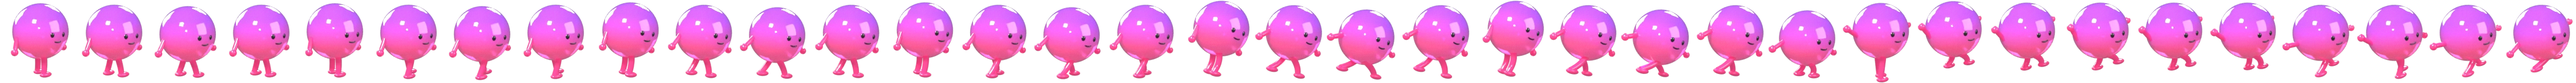
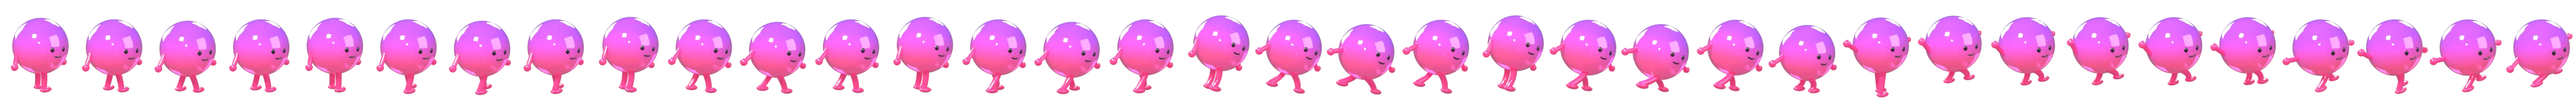
Game: a distinct powered form per power-up
- Shield: purple-to-red glass (as before).
- Magnet: blue-to-cyan glass with a red horseshoe magnet on the head.
- 2x: green glass with huge gold $ eyes that swell through the cycle, and
  the whole body pulses.
- Aura and spark trail take each form's colours. With several active,
  2x > magnet > shield.
- All four runner sheets share one crop box (room for the head magnet),
  so switching forms never shifts or resizes the runner.

Claude-Session: https://claude.ai/code/session_019fbWZCuFJHkf5tasQWWvE6

diff --git a/index.html b/index.html
@@ -1455,7 +1455,7 @@ function crash(why){if(R.shield){R.shield=false;sfx('pu_shield');msg('Shield sav
 function respawn(){let i=Math.floor(R.sx/CW);while(R.top[i]==null||i*CW<R.sx)i++;R.sx=i*CW+60;R.y=ground(R.sx);R.vy=0;R.air=false;R.jumps=0}
 function power(k,x,y){sfx('pu_'+k);if(k==='shield')R.shield=true;else if(k==='magnet')R.magT=8;else R.x2T=10;msg(PU[k][2]+'!');R.msgT=1.4;for(let i=0;i<12;i++)R.fx.push({x:x+rnd(-30,30),y:y+rnd(-30,30),vx:rnd(-160,160),vy:rnd(-240,80),l:rnd(.4,.8),c:PU[k][0]})}
 function step(dt){if(R.dead)return;if(R.stop>0){R.stop-=dt;R.zp*=Math.exp(-6*dt);return}/* hit-stop: the whole game freezes for a few frames on a big moment */R.t+=dt;R.shk*=Math.exp(-14*dt);if(R.shk<.3)R.shk=0;R.zp*=Math.exp(-7*dt);const tgt=SP0*Math.min(1.7,1+.07*R.lvl);R.speed+=(tgt-R.speed)*Math.min(1,dt*2);R.cx+=R.speed*dt;/* the screen always scrolls right */{const nx=R.sx+R.speed*dt,gn=ground(nx),gc=ground(R.sx);R.sx=nx;/* an edge ahead (a wall, or the far side of a gap): if the runner only just touches it, it slides up and carries on; lower than that is the end */if(isFinite(gn)&&(!isFinite(gc)||gn<gc-VG)&&R.y>gn+SLIDE){crash(isFinite(gc)?'You hit a wall.':'You fell in a gap.');if(R.dead)return}}ensure();/* a gap up (a vertical green line) stops the runner unless it is above the top edge: jump it */
- const wx=R.sx,gy=ground(wx);R.buf=Math.max(0,R.buf-dt);R.hurt=Math.max(0,R.hurt-dt);R.sq*=Math.exp(-9*dt);if(R.bnc>0)R.bnc-=dt;if(R.rx&&R.rx.t>0)R.rx.t-=dt;if(R.tko>0)R.tko-=dt;if(R.flip>0)R.flip-=dt;if(powered(R)&&!RMQ.matches&&Math.random()<dt*28)R.fx.push({x:R.sx+rnd(-50,20)*VK,y:R.y-rnd(20,150)*VK,vx:rnd(-260,-120),vy:rnd(-60,40),l:rnd(.25,.45),c:Math.random()<.5?'#c43cff':'#ff3a6e',g:.05});
+ const wx=R.sx,gy=ground(wx);R.buf=Math.max(0,R.buf-dt);R.hurt=Math.max(0,R.hurt-dt);R.sq*=Math.exp(-9*dt);if(R.bnc>0)R.bnc-=dt;if(R.rx&&R.rx.t>0)R.rx.t-=dt;if(R.tko>0)R.tko-=dt;if(R.flip>0)R.flip-=dt;if(powered(R)&&!RMQ.matches&&Math.random()<dt*28)R.fx.push({x:R.sx+rnd(-50,20)*VK,y:R.y-rnd(20,150)*VK,vx:rnd(-260,-120),vy:rnd(-60,40),l:rnd(.25,.45),c:formOf(R)[3][Math.random()<.5?0:1],g:.05});
  if(!R.air){if(isFinite(gy)){if(gy-R.y<=DESC*dt){const up=R.y-gy;R.y=up>30?R.y-up*Math.min(1,dt*16):gy;/* a sudden rise (a curb or wall edge) is climbed smoothly */R.coy=0;R.refY=gy}else{R.air=true;R.jumps=1;R.vy=0;R.top0=R.y}}else if((R.coy+=dt)>.14){R.air=true;R.jumps=1;R.vy=0;R.top0=R.y}}
  if(R.air){R.vy+=G*(hold&&R.vy<0?HOLDG:1)*dt;R.y+=R.vy*dt;R.top0=Math.min(R.top0,R.y);
   const cont=isFinite(gy)&&(R.y-gy<SLIDE||Math.abs(ground(wx-CW*.6)-gy)<=VG);
@@ -1520,26 +1520,30 @@ let lastScoreTxt='';function paintScore(n,col){col=col||'#ebbd4e';const t=fmt(n)
  let x=cw;for(const ch of t){const m=PIX[ch];if(m)m.split(' ').forEach((row,ry)=>{for(let rx=0;rx<5;rx++)if(row[rx]==='1'){g.fillStyle='#0e0e10';g.fillRect(x+rx*u+1,ry*u+1,u,u);g.fillStyle=col;g.fillRect(x+rx*u,ry*u,u,u)}});x+=6*u}}
 
 /* game sprites (assets/game): 3D renders in the site palette. Runner sheet = 8 run frames + 1 jump frame. */
-const GIMG=n=>Object.assign(new Image(),{src:'assets/game/'+n+'.webp'}),RUNNER=GIMG('runner'),RUNNERG=GIMG('runner-glass'),COINI=[1,2,3,4].map(i=>GIMG('coin-'+i)),PUI={shield:GIMG('pu-shield'),magnet:GIMG('pu-magnet'),x2:GIMG('pu-x2')},PUGLOW={shield:'198,202,209',magnet:'188,127,58',x2:'235,189,78'};
+const GIMG=n=>Object.assign(new Image(),{src:'assets/game/'+n+'.webp'}),RUNNER=GIMG('runner'),RUNNERG=GIMG('runner-glass'),RUNNERM=GIMG('runner-magnet'),RUNNERX=GIMG('runner-x2'),COINI=[1,2,3,4].map(i=>GIMG('coin-'+i)),PUI={shield:GIMG('pu-shield'),magnet:GIMG('pu-magnet'),x2:GIMG('pu-x2')},PUGLOW={shield:'198,202,209',magnet:'188,127,58',x2:'235,189,78'};
 function glow(x,y,r,rgb,a){const g=cx;g.save();g.globalCompositeOperation='lighter';const gr=g.createRadialGradient(x,y,0,x,y,r);gr.addColorStop(0,'rgba('+rgb+','+a+')');gr.addColorStop(1,'rgba('+rgb+',0)');g.fillStyle=gr;g.beginPath();g.arc(x,y,r,0,6.3);g.fill();g.restore()}
 const powered=s=>s.shield||s.magT>0||s.x2T>0;
+/* the powered form follows the strongest active power-up: 2x (green, $ eyes, pulsing) > magnet (blue, magnet on the head) > shield (purple-red) */
+const FORM={x2:[()=>RUNNERX,'40,210,90','235,189,78',['#3ee87a','#ffd04a']],magnet:[()=>RUNNERM,'40,110,255','90,220,255',['#3a8cff','#5fe1ff']],shield:[()=>RUNNERG,'170,40,200','235,40,90',['#c43cff','#ff3a6e']]};
+const formOf=s=>s.x2T>0?FORM.x2:s.magT>0?FORM.magnet:s.shield?FORM.shield:null;
 const ok=im=>im.complete&&im.naturalWidth>0;
 /* runner sheets (35 frames each; gold, and glass while powered up): walk 0-7, jog 8-15, run 16-23, take-off 24-26,
    rising 27-30, falling 31-34. The gait steps up per checkpoint; ground frames advance with distance so feet never skate. */
 const GAIT={walk:[0,74],jog:[8,62],run:[16,50]},gaitOf=s=>s.lvl<1?'walk':s.lvl<2?'jog':'run',RPRI={coin:1,pup:2,cp:3},TKO=.15,FLIP=.45;
 function react(k,d){if(RMQ.matches||(R.rx&&R.rx.t>0&&RPRI[R.rx.k]>RPRI[k]))return;R.rx={k,t:d,d}}/* a short body reaction; a bigger one is not cut off by a smaller one */
-function player(x,y,s){const g=cx,pw=powered(s),im=pw&&ok(RUNNERG)?RUNNERG:RUNNER,r=s.rx,rk=r&&r.t>0?r.k:'',u=rk?1-r.t/r.d:0,k=Math.sin(u*Math.PI);let sx=1,sy=1,rot=0,dy=0;
- if(pw){const p=.5+.5*Math.sin(s.t*7);glow(x,y-85*VK,(150+30*p)*VK,'170,40,200',.32+.12*p);glow(x,y-85*VK,(95+20*p)*VK,'235,40,90',.22+.1*p)}/* powered aura: purple outside, red core, pulsing */
+function player(x,y,s){const g=cx,F=formOf(s),pw=!!F,fi0=F&&F[0](),im=fi0&&ok(fi0)?fi0:RUNNER,r=s.rx,rk=r&&r.t>0?r.k:'',u=rk?1-r.t/r.d:0,k=Math.sin(u*Math.PI);let sx=1,sy=1,rot=0,dy=0;
+ if(pw){const p=.5+.5*Math.sin(s.t*7);glow(x,y-85*VK,(150+30*p)*VK,F[1],.32+.12*p);glow(x,y-85*VK,(95+20*p)*VK,F[2],.22+.1*p)}/* powered aura in the form's colours, pulsing */
  if(s.air){const v=Math.min(1,Math.abs(s.vy)/2400);sy+=.14*v;sx-=.1*v;rot=Math.max(-.35,Math.min(.35,s.vy/3200))}/* stretch with speed, tilt with the arc */
  else{const a=ground(s.sx+50),b=ground(s.sx-50);if(isFinite(a)&&isFinite(b))rot=Math.atan2(a-b,100)*.55}/* lean with the slope */
  if(s.flip>0)rot+=(1-s.flip/FLIP)*Math.PI*2;/* double jump: a front flip */
  sx*=1+s.sq*.9;sy*=1-s.sq*.9;/* landing squash, set from the fall height */
+ if(F===FORM.x2&&!RMQ.matches){const q=Math.sin(s.t*13);sx*=1+.09*q;sy*=1+.09*q}/* 2x: the whole body pulses */
  if(s.bnc>0)dy-=s.bncA*Math.abs(Math.sin((.45-s.bnc)*14))*(s.bnc/.45);/* damped rebound hops after a landing */
  if(rk==='coin'){sx*=1+.16*k;sy*=1-.12*k}
  else if(rk==='pup'){sx*=1+.3*k;sy*=1+.3*k;rot+=u*Math.PI*2}
  else if(rk==='cp'){dy-=130*k;rot-=u*Math.PI*2;sx*=1-.1*k;sy*=1+.14*k}
  g.save();g.translate(x,y+dy*VK);g.scale(VK,VK);g.translate(0,-85);g.rotate(rot);g.translate(0,85);g.scale(sx,sy);/* rotate about the body, squash from the feet */
- if(ok(im)){const fw=im.naturalWidth/35,fh=im.naturalHeight,Hh=185,Ww=Hh*fw/fh,G=GAIT[gaitOf(s)];
+ if(ok(im)){const fw=im.naturalWidth/35,fh=im.naturalHeight,Hh=217,Ww=Hh*fw/fh,G=GAIT[gaitOf(s)];
   const fi=!s.air?G[0]+Math.floor(s.sx/G[1])%8:s.tko>0?24+Math.min(2,Math.floor((1-s.tko/TKO)*3)):s.vy<0?27+Math.floor(s.t*12)%4:31+Math.floor(s.t*15)%4;
   g.drawImage(im,fi*fw,0,fw,fh,-Ww/2,-Hh+8,Ww,Hh)}
  else{g.fillStyle='#cea85c';g.beginPath();g.arc(0,-90,70,0,6.3);g.fill()}g.restore()}

diff --git a/scripts/icons/objects.py b/scripts/icons/objects.py
@@ -57,6 +57,7 @@ def _hit(objs, x, z):
     return best
 
 NOFACE = False
+DOLLAR = 0.0   # > 0: eyes are gold $ signs at this scale (2x power-up form)
 def face(targets, cx, cz, s=1.0):
     """black dot eyes + small smile on the front of `targets`, centred at (cx, cz), scaled by s"""
     if NOFACE: return []
@@ -64,7 +65,13 @@ def face(targets, cx, cz, s=1.0):
     for k in (-1, 1):
         h = _hit(targets, cx + k * 0.2 * s, cz - 0.1 * s)
         if not h: continue
-        p, n = h; e = uv_sphere(f'eye{k}', 0.062 * s, tuple(p - n * 0.012 * s), (1, 0.55, 1.15)); e.data.materials.append(f)
+        p, n = h
+        if DOLLAR:
+            bpy.ops.object.text_add(location=tuple(p + n * 0.03), rotation=(math.radians(90), 0, 0)); e = bpy.context.active_object
+            e.data.body = '$'; e.data.size = 0.36 * s * DOLLAR; e.data.extrude = 0.035; e.data.bevel_depth = 0.012
+            e.data.align_x = 'CENTER'; e.data.align_y = 'CENTER'; e.data.materials.append(principled('dollar', (1.0, 0.74, 0.18), 0.22, metallic=0.85, coat=0.8, emit=(1.0, 0.7, 0.15), emit_str=0.6))
+            out.append(e); continue
+        e = uv_sphere(f'eye{k}', 0.062 * s, tuple(p - n * 0.012 * s), (1, 0.55, 1.15)); e.data.materials.append(f)
         e.rotation_euler = (-n).to_track_quat('Y', 'Z').to_euler(); out.append(e)
     pts = []
     for k in range(13):
@@ -258,12 +265,16 @@ RUNNER_SKIN = os.environ.get('RUNNER_SKIN', 'gold')   # 'glass' = the powered-up
 def o_runner(gait, frame):
     """game runner: a smiley ball with legs and little arms, turned to face right (the run direction)"""
     P = smiley.PAL
-    if RUNNER_SKIN == 'glass':  # powered up: translucent purple-to-red glass with an inner glow
+    SK = {'glass': ((0.98, 0.06, 0.22), (0.4, 0.05, 0.98), (0.85, 0.05, 0.25)),    # shield: red underneath -> purple on top
+          'blue':  ((0.05, 0.25, 1.0), (0.3, 0.85, 1.0), (0.1, 0.4, 1.0)),       # magnet: deep blue -> cyan
+          'green': ((0.02, 0.55, 0.12), (0.45, 1.0, 0.35), (0.05, 0.7, 0.2))}    # 2x: green -> lime
+    if RUNNER_SKIN in SK:  # powered up: translucent glass with an inner glow
         bpy.context.scene.render.film_transparent = True
         try: bpy.context.scene.cycles.film_transparent_glass = True
         except Exception: pass
-        body = glass_grad('rglass', (0.98, 0.06, 0.22), (0.4, 0.05, 0.98), trans=0.6, emit=0.45, axis='Z', k=0.75)  # red underneath -> purple on top
-        limb = principled('rlimb', (0.85, 0.05, 0.25), 0.15, emit=(0.9, 0.08, 0.3), emit_str=0.5, coat=1.0, coat_rough=0.02)
+        c0, c1, cl = SK[RUNNER_SKIN]
+        body = glass_grad('rglass', c0, c1, trans=0.6, emit=0.45, axis='Z', k=0.75)
+        limb = principled('rlimb', cl, 0.15, emit=cl, emit_str=0.5, coat=1.0, coat_rough=0.02)
         limb.node_tree.nodes['Principled BSDF'].inputs['Transmission Weight'].default_value = 0.4
     else:
         body = plastic('rbody', P['gold']); limb = plastic('rleg', P['bronze'])
@@ -285,7 +296,17 @@ def o_runner(gait, frame):
         hand = sh + Vector((side * math.sin(bA) * 0.42, -0.06, -math.cos(bA) * 0.42))
         parts.append(tube('arm', [tuple(sh), tuple(sh.lerp(hand, 0.5)), tuple(hand)], [0.07, 0.065, 0.06], limb))
         hd = uv_sphere('hand', 0.1, tuple(hand), seg=24, rings=12); hd.data.materials.append(limb); parts.append(hd)
-    fc = face([b], 0, 0.3 + bob, 0.95)
+    global DOLLAR
+    if RUNNER_SKIN == 'green':  # 2x: huge $ eyes that swell and shrink through the cycle (bouncy)
+        n_ = 8 if gait in GAITS else AIR[gait]; DOLLAR = 1.2 + 0.4 * abs(math.sin(2 * math.pi * frame / n_))
+    fc = face([b], 0, 0.3 + bob, 0.95 * (1.25 if RUNNER_SKIN == 'green' else 1)); DOLLAR = 0.0
+    if RUNNER_SKIN == 'blue':  # magnet form: a red horseshoe magnet stuck on top of the head
+        red = principled('magred', (0.9, 0.06, 0.08), 0.25, coat=1.0, coat_rough=0.03); pole = principled('pole', (0.86, 0.87, 0.9), 0.2, metallic=1.0)
+        top = Vector((0.05, 0, 1.0 + bob))
+        arc = [tuple(top + Vector((0.3 * math.cos(math.radians(a)), 0, 0.05 + 0.3 * math.sin(math.radians(a))))) for a in range(0, 181, 15)]
+        mag = tube('headmag', [tuple(top + Vector((0.3, 0, -0.17)))] + arc + [tuple(top + Vector((-0.3, 0, -0.17)))], [0.12] * (len(arc) + 2), red)
+        poles = [cyl(pole, tuple(top + Vector((x, 0, -0.24))), 0.125, 0.16, bv=0.02) for x in (-0.3, 0.3)]
+        parts += [mag] + poles
     hub = link(bpy.data.objects.new('turn', None)); bpy.context.view_layer.update()
     for o in parts + fc:
         mw = o.matrix_world.copy(); o.parent = hub; o.matrix_world = mw
